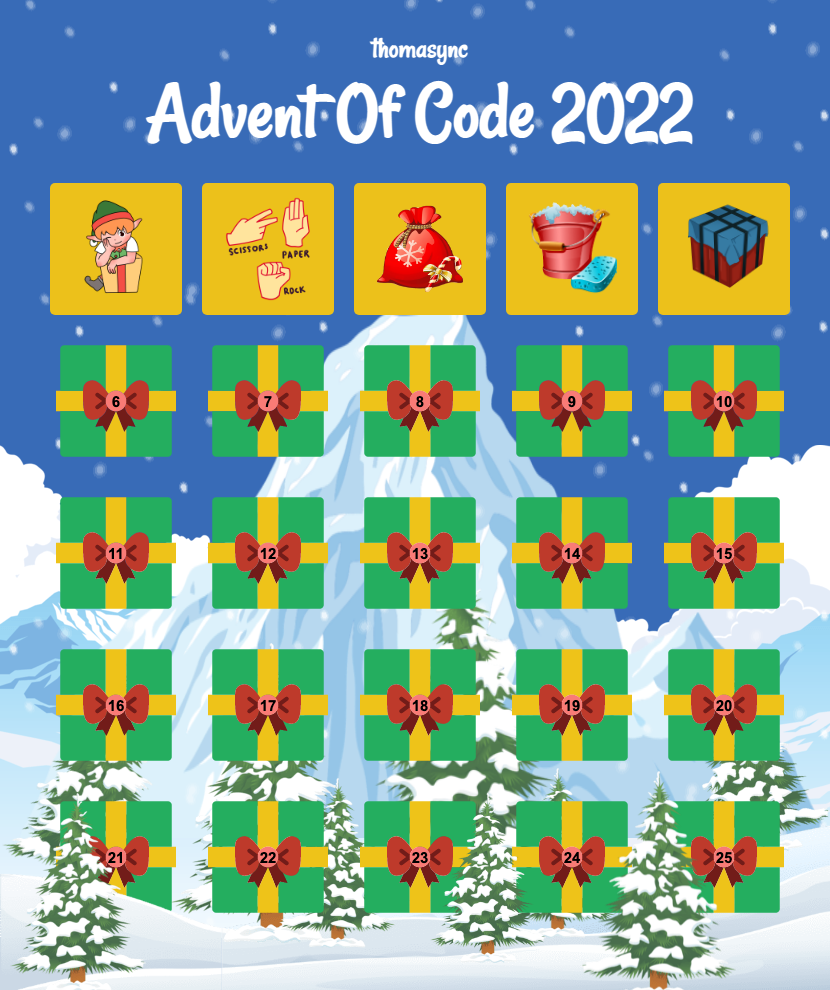
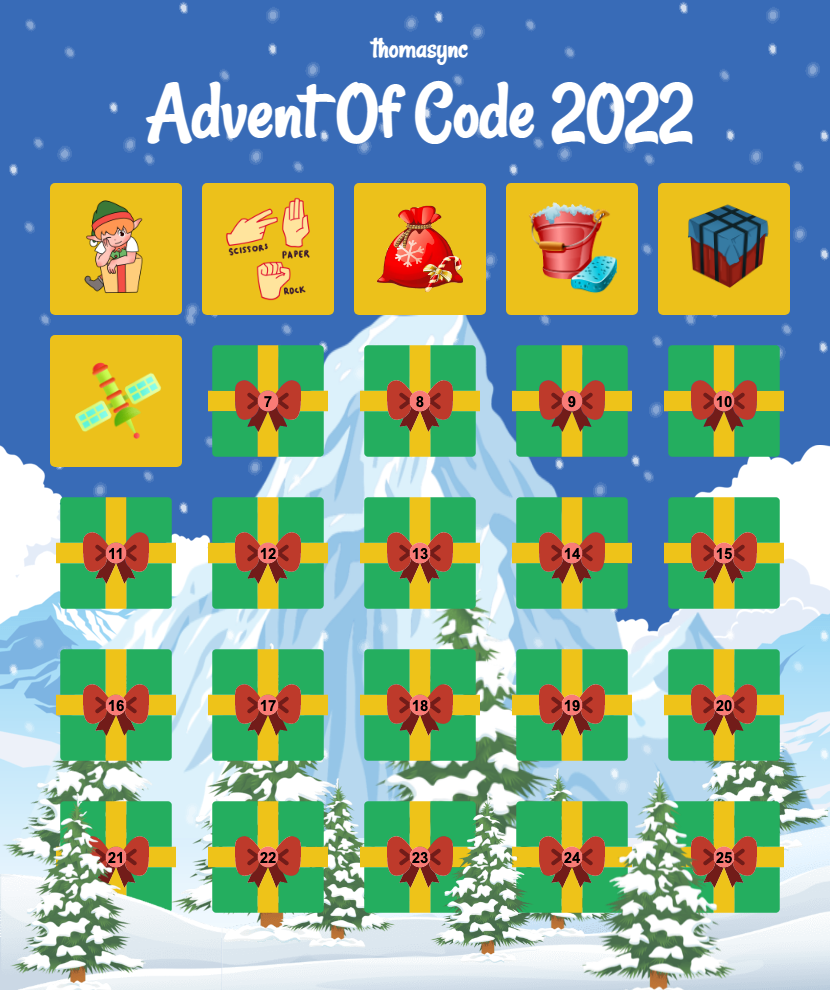
resolved #6

diff --git a/2022/js/3.js b/2022/js/3.js
@@ -112,11 +112,11 @@ function part2(input) {
     return sumPrioritiesTyped;
 }
 exports.part2 = part2;
-function score(letter) {
+var score = function (letter) {
     var sumItem = parseInt(letter, 36) - 9;
     if (/^[A-Z]*$/.test(letter))
         sumItem += 26;
     return sumItem;
-}
+};
 
 exports.default(["fzmmmfwDWFzlQQqjCQjDGnqq","tJHJvLJVVttNsvTtTvgHHSVwCsQRQQZCZZMqQMQBnqBMQs","LgThNJhNSgTJVgvgtghPhbpfWzfbwfPmpprb","lDLnSnLZRjmWrlhrFF","PffQJNqJbPZbpmjrrCVNFmCh","qzbcbqfMfZMTfQTqqzzTPPLMHgBBBtHRStvgHRDBnSRL","WPZfJlZZCMwwZPWCwWzVHQhsshVSsfNQHdvQNN","FLGDGGnGdVjQQQDQ","ccFFbggLnRcLFRtFBmnJzdZZzZBMpwJlZMppMp","RZsnCZssCnDccJCnfcQfHTdzMzhdLdMTqdRqpRLwqq","tNrGNrrvGhTThQqw","rrFStPgrFWWgvmPgQjtmNtmJcfJcsJsZblDZfbfHDFHnfl","RdTfgbbPbJWDDqRvsDsmVG","NSQZLQZHpFGLqnLszrJm","ZMSNMHhNZMMSQwhQJWPBJCbhbcgtgfcJ","qZfqPvLnnZGpGpCJlvsMsMlHJJHB","mTWFFFTTtVSJMzzjWgSH","RbVdtdFtcrmbRQDDVHDQTbDNwLPLfnqZnhZhQnNwfNqnnn","nhHfSGHGThhZjnhrrSnsSczdzlfzzdQQVzRNFNcFdl","JJvCDvmCbtvpvbMmDvLbCJpmqdVVVcMcNGzRcNFcRRzRclQd","vwDCwtLmwLBDJmCHHjHHWGZHBnsnnj","QWTMqZhThbTbLwtGBrQfQQNr","jdzSSccVPPcgcLrDBtDVwCfNNC","vcBgcmssccplTnnTqsMhWW","FlcwZhBhGZhFJnGtZZFwlGsWRLHdWqMzPjWRLTLJHHjdWq","vfmrmbpfpMfzjHjfdM","VCSmVpmrNDMZhSMcsFnh","nHqQVtVZGGwwwnSF","fMBBBWCsCfMMbWfbsGmGzFjQGQFCPhFQhF","fbcsWpJRsWlcNVLtqtLLQcZQ","rgNJdfNJpgpJVMMVfmfVJgCtCTqqqzwTqrBsTswcCCss","lFLHGWLvHQFhnQFhbFnbHWWPBtwqzBPTcsPTswZCPBGCTC","QQtbRtLhtjgdfMRMDV","jTRhJpGhQPfPLsDhWh","wVVMbqbHwVwwMplHWfsfNmWcSLqcLmSs","lVCZlHnwHdRpRGvZTBGJ","csppppDDbGLbSqndFHHNdHsH","lVTlgWgjzCzfgvfggZWWlnHPPBHrSCqBmrSBrHHBnF","QFgvFfjTvZjzlvVTWljvTtMbLcccbRRMbwLMMLQLbw","tjhLjLJzpJpwjsqqfQqNrNfRnsRR","WvwGBPwWZZrnbBNrNnnC","PDvGVTgvTMGvZTGTPvWDZVJjljtLzhtmLlJjwJVJLm","WbzpSNswNWszwSLgSNMcrrBfPJJcfsHMrvMv","CFllhlGFDVFRCmhQDlDTBBcvgBCTcHPHrfrHTJ","qGRgVFhDDZmDnDqhgQFGqzwtzSjddwZbzwpLNzjpdS","FlpZrQSJJmQpSpqlQgbbRZCgGCZdDdbNdd","WswHfjfnhWPFDsFRDcbBbR","WjHvjjWTfTvHFjzvPnPtttVTTJVLtJSpmtlltp","tnjrnnnnhNlPBtbbcWpZScpjbZSz","wmsFqfqqqGHTLbzpLLbgzMcH","FGJqsmQGRVFwwQJschPdhPrBndBhtPhrQQ","dRdJRfTnCRNlJjPBDmBJsbBDzm","wSFWSgGVSLwpFhpLhQjzgPzbtDPDbPBsztrP","WMGvVMLLBCclNHHRlM","gfSffQBDBtZvwwpWDHcbwb","JnCmmJCRmztsVPJRFjFchcGGWFWcGcHFvGLvHF","VCPzJnsPVCjtPjdMsMdmVmMBfgTZBTMfSfZSSlfNNgSSfg","lwHJSVZHWWVwJQwbbVVtwWVVdpdPfRfgDLPZLTZLDLgRDTZL","hhBrBqRcnhsFFfddmdmmCmmppn","MNNBBRRshNHbtVMzQJMM","NBsSNtLNTtNsvlTBBRLgFSCbFmbHFCFhgcghSm","WJWWDdVzDZJjDJQcCDHmmhCnmHmHFm","zQVdQZQwqVQHjqzWWWdHpzMwGMBlGLLtTvRvRNsMwwNN","ZCztttSjGSqRZgRPDNQQNr","hLvmHshLmLcFwwhhwLqMVRRRJQQVNnRJMVRDNNRr","HFhTpFqqLcssmqmFftblBSjCjStjbGWBfj","crffjHDfrQfnfpLPgbgP","TmFvFCmFTFFCtNsmMsRvlRTpPbLGMnGSngPppShGpbdgGJ","vmslmwTNmtstzFsCvRFrHBrDZzcQnWqcDDHqQB","LQLPVLGdGrRPRhHgwMhllhhs","ZbSZTNqSZfNqNCtSSmTttbpSWMlzWlslpWHsWgJWhwJzBMlz","bqjqqFFjHqTTTZTmSNbfmdrFQnDdcvVDGQDvvVnQnr","mQdcdsSThlccSWhMgDnQnFtjQPtnjPNvtR","zzsGwzrrHGBfZJGrJpDtNHFjvNvDvVRvNRtV","wZBCGrbrszTbThcTcLcb","gJDDDDcPQgQfNFPhhZGDDcZZSLVtlCqzsMlzqpszlsVtFSql","bBrdwHTrHWTrTtzLlSMCCCprCq","dnBwRvmnbmBvTpbnbWbTjZPQJhhchmJcmcQPfmGNcJ","sjMGBLWGZjsLjJTBCCbvNrBCHC","mpcRfDSSdqDdlRqdwRvFrHFbrHJFJVvDVrTb","qvlgqwpcSQSfLjjhzgnMzsnP","VgmLHHNRNVLNhsNgRHLltjjbCWnCWZbldntW","GGMFPJqPwJGTvvCCdqdqlqCj","rGwGrMQzJQBjJwTVHgDQDHcsfhVhVg","pblwGBlFlWwwlgCSFwbLvQZFvzvZhzvmQTLLzJ","HfqccHzVDNqLmmPmPPQZ","MNtrVdDjHtrzGBdbGWCblw","NNhnnLdnnfhdhVjvThvqVvCj","tHtHBzBGWHBWGtPBSvvpGZVbSsTFjSqqVbscgjCjqqSC","HBtzJHzzpDZpzMWpGPtWHvZwQmNLlmQnmNdfMmNRmwmlwd","QzGqGwmbfTdPBgRRcgmMPC","NtNZhljrNjrSrtltWlCJCJJfcVVRcJcRgPjf","NlWSZZWsHhWWlprSSvZWHrWfQLLQbLGfQpQzzTFQbwzQdd","gcwcSnccnwLRRSzcBQRvZZdvtNtvRbQJQv","CqrCrrPsVstvbfDfbb","TPlPVhWFFMGMnMjbcT","gjjHGvcHgsgbSRQbRFWbjC","ttnBTNSSfwBLzplWPPdlLlMPlMCQ","TBZpDtmnnZNvhJDHggqqgS","zfqzzGwMbllcJFqm","NpHgpRZrRpSrSZLghlTjchNlNbhFmchb","RHLWHgLBggZpHpgHRZrLgZLQCMzCfDWGMCzMQQGvPmvvfC","bBWWlFFBBFdVMLfvsfjrtBvTrr","qZsgNZzcwfjZrfPf","gcnNNcDncsDGzggDnNRJnzHhmlMVSSbhVVVmMbbhVmMlGl","dNNRQszqRhPNfddWltvDltMMNlnncv","ZjZbpgpSpjpJgpCCpbFlTnSDTlzclDnMvnnMlT","GCJpjbgzJCpwZwrHZrgHsRBwBVRRsqdqPhLBQqsP","mnnVCcwGwnsVJntmfnBtBhTDzpzzpDWbDbsLLzpWDz","FcHQdZSRHbhZZWWhrW","dNljMlPPHdMPvRlHMRdjRRNBnwJfCVqwqqffCfCwtcBV","ZGtGzBBGjvdZvLWLcrPVcZcsNVNmVpcH","MnlgngCJMgJbhfDbCDPrHHVcNNrVpbVpVmmcVq","lSPhlClftSSBvdGS","jFhGqVCcPMMdGFqczBltzrtglrsrjBgB","wWgwvfDZvnpmnHwHTfNpDbtRWbzltRlSrRlbBSbbzt","fHJvJvvTwwJPhCccgQCM","BrrrBVgNppDVBbTgDvqWdWZqWqwNmNNHvH","sHsHnHlcJjFwMMFFvGdPvv","HllCQCJQJsnjgtVTbBgpQrSr","JgLPLwbhBrCbLBCJPFFlPFZRTNTZFRqlRq","pmffSWvDcfSfGmvsNHZsTRsWllssbT","vDddMmScdStfzGcpzzwhJwJwnCbLwwLLCwht","sWSSvmsZsdZPWdLPRRsmSrrnlnvJjfnggfrgtfjnjr","VWWWBhhHBBHtljMMfJHrrt","WWqpWVqQqLNGRNZP","QHjjGVBQpffpjqppQsSsQHWJcVVgJFWcFTWgNLggFPNc","bzzmbzzZnZztFTNJWRqmqcgJ","zDZlqMtbwhCBBfppvHDGvf","BNTdfWJmzHNHHzzTdLCfCfCswQjRjljVsh","FbGnrFnrPGSSvGPFZFFPGClLQpjQRwLjLplQhRlsrQ","GbnvvgvPFwbwcnZMMGSFvFHdNHmTBNJNmmmDTJDBmWcT","rBhRPrjJrRtTHtWHWcjc","SDdGqmhdFSqblLGlHHfHWl","DSSmFqhsFqFdzqFgwsVnvBQPPQPQVrnRsJMR","NZcgQdmSwZgdPFPVNFPqqVVF","hlhhjMhGjLhLDGDhCBJDCrRFRrqqpLPfpfPRVPprPm","MlhjlMDDJTCmZddQQSTcTT","zRddrwzwNhrzrtCLtLfsLrqflC","MbSDZvVwGZpJwvHvBVfsqtjqlsPPfsqsfclb","vJpvJvZTVgTdTgwdTn","SZMsTTScDMqwtDDJ","VWrbzFvnrvFQQtnhzdPFmfwGfqmGPfDwmfPJ","rrLbrnVrLvVQpLHSHjsTBBjZBt","bSrpbWpPpfzPRWrWvhJgddrcccgFnFss","ljGNTCtMNLGQjNMjQMGtZJDDggcldcFcvhdFddnhhF","vNCmQMjmvGzpRPPzzmfw","BrbdcqcdSZRLQltNDqFpCpHH","jnTzWsWjWjwTQnzMvFlCzNDhNhDCFGpHpH","wmmvjVQMvwmsQMMwnsTPgVfgJcLcgfSbbBdBbJSdbSBS","bJFbMdcmgFSFgmggJFcGwjRdzPWZWGDDGGRwGD","hrttffCVVCTVlrttQwzRzwWTqRGDGwjTvG","rfLChHhlpHrfHlnWlpWCpQVcMSmMmSJMmggbmMSMLFNSSs","JRMBJfMJQJTcNNdD","LHsLmspghmmpdwwwcwRCpPTT","ttLLlRSlqjrMqFtZ","VjtHVHtvVqttCdnGpHtplcshglNgprrlMhrcNghw","WTWRvRWFZQLWDvDWzwscNfcflcshlshFlw","WQmBQWPTVGnJPnvn","cpRwjcQwVfQzQPQl","BZgGDBZBsgWBDDJzlhfhJVmzVfmThm","FqWDDGrGDFNqFrDZFnplNHnSwtnSRwRplN","VMLVRhRLRfhfgGdfVdZWRdTHNqHCDTrSJNBBBgJNQgND","swlcpsFPcPwzpSlTTDrNrQPQqQBBrH","zsppFscsscmbzsFsbsZbMfRZdVdVMbVSWhLG","NjcjHFjrHHFpjGtVtGWVZW","fwPlsJqdndPnwJfQdfllwNtWGdtWMMbtbmbGWbMWGN","CPlwnCwnwqClTJThTDzzFcHNSShrRh","llqlsNsPNTpDNTDNNf","cnvcWFjSrMSFnvWHTzTggHCcllzLpg","wjJSSrFrrMMJGrFFFGjGvJnFswsRwRdmBdZbbqqsPtQqPZls","jlclpqjcRqpjzjnVPgTmBmjCrC","vGvsFNGGMZNvdGshQNJvJgbVMrnbrHVBgBTTbBBPBT","SvJNGhvvvFdfQvFshSpqPqLzRRPctRcLWwlf","LWSSqLVBbNqqLrWHLSHzWbbqQfFgZtmtJCQZzgtCFCQCCnJQ","PlldGDGdjGsMPhssjPmQZFJQQZQghChZQJgv","jwMcMpsPRRdsRjPwNpTWBLSBqVqTNJWT","hWnMWgTffWFbMLfHnFMNfHgjtBSNRzjBBSzSBBcStdzBtz","VGrVCGcVJswvPqJQjtQppBzpSwdjpt","ZqqsCrmmsfmWcHhngg","vnNnssMcZnlnlMFMsnFcZMGqJCbLbNLNqgLbgLNTCpLgwC","hmjzBzHmRSfBfmqgQwpQQJbQJmwT","WVVtthRtRdsdqtddZd","LhZBLfZpmcsFpFzm","vTRRwTRRPnCTwlFgmsczzLmgLvFs","HVVVNCPPHTTtClRVNSnwLTHSQHBMMHrHWBhrQbJhWMMbZbJZ","WPTnnDPjvPlChhJPcgCC","DRQdBqsDQHQLHsBSmVLBcbwgCClbgCGlJghgmhgw","dHMHQDVVRBsMWTNfWfzWzf","PlgFPFFJGgJhhMGZwGbpBtQjjjStBttptlSb","TTcDzmHvdvnDDzdTVnTDmSspWspQLpWmSsmqppsWtb","CHVdcHvdbrwJCMPRGJwP","BtBfcPfBhBGDhwHMlCmrNSCM","dQdzLFTQnRnQVvgLnNlrCCpFrJCNrHJrwm","zRVLZQRRvQGbwtWfbGZb","PPcWcwMmCwwgnphCCLpjHp","TtZsJTzzJSSSZJsdJtTrpblhRlHHHMngpLnnjHps","ZDrvdFZtJqtStrZfMcGDVwfwffmWmP","wCwSzzsHChhMVMhCPsSVLFWcdcWGPccRdjFdJjDR","wBTTlBfgTlfpQQltmfgGGctRdGJJJFDJDDWdDt","TppwnmlnQQqnlpqlmmwqlpphHqrVrZZSzshzShqzsrZVqs","CCqCTgmdMCCCMMsWgqqnTCmJDGJcGGJfrGNGrSrrQpwFFSwG","vZbDZvhDbzHzwNzwNGFNpNGc","ZjBRVHPRtRLjLMWsCDlmgMdBmW","MMsstRChwbChqRBqDrJNpNDsHdlNlJdr","vLmPLfGGGGcTmFfTSgvPCvpZQlHHZpdrFJplQdZHQdHH","GgPLmvGVSPfmfcfgBtjwCRwwjBbtVWbh","LPPgFPccLPRswfsHfJgDsH","bpbpTnCCrnmCtjBnTfDshHDwQVTwsDhQ","BbrjnjnWCbBWZbPWzLDzDWdNlMWS","pnncvLbcppBHgBRpddGd","MtJfjVMtMmFJDjWSjVWzGdGgNQRBzBGNBMCGNB","ZdDdsJFdDmtJmLTbwcvcbcnwZv","FGsfFdNdhfbDdbhbLMhbNNTPJVCCZTLJnCRVJLPCRTVR","qHjsczptHpmgHZBBVVTrrPzrBP","lmpSlcglQtqWtcWjpQQfWsGDMhGFwdbGGNWhDv","hNNNjMFMwthjFfvZBjFFvNSdnzSGGdGmHzHgGWSfHWSR","ppJpcCVslpQJpJJDWHCHmRHHWWGSDn","QbsrJQTQJVJNMNnZTZNZvZ","NmRNLtGNmfcRrtDtrJCnWHJD","blSzzSBssgfslWCCCJWFWHrsZF","zTzbPBhMlTVSzMlMldlgMvvvvMLGcQRmqLLfvRwQ","nnZsfsPLLfZfHLWdsZWZHdmcSpTcGmNScJTRGsTJmNcF","gqVqDMgBlDbwwCqVbQFpTNFcTRSJNSrqqTSm","jlMVMjljQBjMwhLfWWzhhfhZtmLH","bfHwMvzwFBNpRjfZ","nddcVJpGVpGqPVBBFBmhBhmsNRJs","DWcPgPcPgnqCPlWWVWGMwbzwvQSSLbvgLpHHMz","NMVqtdPVHgVlrfVrpnjCwNjjpCpNNpCb","zhSvfWWzRfRLfvSpQjwbmmmvQvwwCD","LBRRTRcLJSgqqMJlVVft","GpgNzzSMGpGTrgzgMzJTrPgzjRwBdBlBbLRBjdBwVbLRVbSR","sQWCfQcflhtQQcWCmsmlsbLnRdwqqBmmbBVbLVLwnB","fCtQWFWDZFCQhCctFDsftNpzPPzZJpgJJNTgNlPZgH","DqLtMSDLLttjdDSRdjZtdpdqVWFslFWrqWPqhwhfFwwCFw","CvTbNvvTJNGHnVJwPfwFFFwsrh","cQBzGBHnTQGgcNtdMMBpDBtCdtLL","QsNDfdDNQsSTtrQZQtJJZC","lLvRWMVMLzWbRjvVgVVGvmTtCrZBrTFFbmJCmsBCrr","lljvlgpMGgRpsjsRlGGsMdqDdpDqNqfhqqSdncpqdP","sVSJVmmtmsCCwschrbNMbcBs","ZgLLfqvzzqgfdqHQLnTLfQQFhFMrhbNGBwgGbMlNcFclwN","LTzqZrHHQvjLHnHdQTdTQvZQJjCpCJDPmCRRtCpStRRmVtmm","ccQVcVHwnnDqNqSWNnVvqwcgJblgRslgmdGlssmGbQdddb","rpFtPrzrMFZvZTLPpglhdssFshssJhsggG","pTtLtBMjZLfHvNWqcBHf","PZnSjnnsVfjfLLff","crvccpglrtHfNbzbHLzmGN","lptTLFFpdgvttFWltTclplDvhJMSMPhJPhChShPBZBMJhPMT","mPSPdnhznPdhSmPGchJdFDtBhghgFgWpFBQhTBMg","rHNNvbqHHHwZwMGMWtgtQMZQFQ","wRqqRffvvNHwrHqrNqLvCrqvmPnzdsGJsSsSdSsLPVVPnjsn","CzlngWpClJlzRJpDnpmzCndrhBcrhwcsBcLsNcsmLdQQ","qqSjqFGTFbPFSPTVjcBcBsDdQrwBVLrNcc","PtDDtZTvGDvFCMzZlRJCfWfJ","vtQDpvpvVvvcSFrrljZZsVjFrV","RqcTTRddRrlsjZrwrT","zmbdRdMmMgbPDcGhGmnDpcQn","gZqJRZRZdltFVGZQDZwV","MCMSRHCMRHBBVtVCGwDCFGtD","jcHsTMBNSSrBMjmMrcTMpRqpJggllnprqzRPzdlP","mWSWHdmHWZWjBnGs","TvchwtTfcTvhzwVGNtdrbjnnBnsnNr","JTdwghvMzwfdcMVJqPmQFRPpCDJRJFFC","DsHDCrszvvhHsshvsrrsgwdPpdLFgWLpbRpWFfMjWjWF","BVJPJmPmGZVnfbVfMWpdLMWb","cNGtnttqmJHNvNzDPPHN","gpjmMQMrfmMntCSCNmSNCm","vDRqphDhzHSdtqdCNH","LFLLcbJRJLppFQlpMFfF","SnSdvchzZZczndNvwcwnQrGfqrTTfhhTDgRGGLQQ","lVWHWMmWmttsFBMLLqLTRRRqqDBGTf","bsFPbFFssmFjWRmjVFjHbczvpZCwvwZccndpvzpzCP","jzngbHrlHQllcbcTCtHGWtftGCHqWC","JJgmsJRwFqChLGtqGs","SmJmSmDdSPRwSMppJdPPwVvvzNQvjrNMNjMZZrQgZNgQ","PvPlPcZPZFllzNzCDdhhdHjrpHNjHBHB","VmgWtJWrqbQmqGDBdGQjjhBGdG","tmbgggbgnMWnStttgnfnTzrCfPvFnccnPclT","RQQbdSRdpprQSNVqqqfrffjvnjnJnhnVvHhBhVjJtjJz","WGgGgLmLgGZMPDBhDJDHjMBFnD","WPPwPGwlLgZwmWlslCLRNbrsTrfRrNNQqsspBT","dNNpHpchLppdccTNtZZTRRPSSnwPPSbSnhhrhnSJ","qfqsFsqffgQMznJrPznbMrrB","vglfqQCgDgFjglCDCjLZpTHNPHttdcZVVN","FWtDHDStZwrFCDwrgWPFDsWQJZzlMdpZzlNpNjdjjQzNzj","BqnVGVcbTmGfHLGVzvpQpvJvQlflMdJp","ThRRchnHqLTGbFCCCrrSSFhFCs","wJrwdZPnJwqPbJPCnjFZdvHtMvsLsTsDtHsHDDqvpH","RWzNRWjRfgjNMMLvcMcLNt","WGGRQzzRmRmVQSgwrwJjjCbJhnbShJ","cjngcvcwbMwWnbMWjbgvnsjPftsqfthqsBtsJJJJBt","HrGFmDDzpmLTHpDsPfsBNBPfzZNPqN","DDVmDplDrpGSVSTTHGlpLnPwCRnWcvWCdPbbMvcVdW","BVRlBfPBffWswVWQsfwBNNPMFMmmGFZGnWZGtztrzMZMnz","HqSJchHTHbTgHhGhvmRzFmnFtzRF","RJqHTpgDLJDSqLJJPNVjsfPwBVsVLlfN","NDrBlSmrFBlbbJllmtHHwhNNhZztqHVRzQ","CMTCGLcvvtfCdCcCvCnMTMcTzjHwVZVRLjRRjQjRHRwzwjVH","dfGdgGMGPggnvfvgbtDtlSJPDSFJPslJ"]);

diff --git a/2022/js/6.js b/2022/js/6.js
@@ -1,0 +1,111 @@
+"use strict";
+/*
+
+--- Day 6: Tuning Trouble ---
+The preparations are finally complete; you and the Elves leave camp on foot and begin to make your way toward the star fruit grove.
+
+As you move through the dense undergrowth, one of the Elves gives you a handheld device. He says that it has many fancy features, but the most important one to set up right now is the communication system.
+
+However, because he's heard you have significant experience dealing with signal-based systems, he convinced the other Elves that it would be okay to give you their one malfunctioning device - surely you'll have no problem fixing it.
+
+As if inspired by comedic timing, the device emits a few colorful sparks.
+
+To be able to communicate with the Elves, the device needs to lock on to their signal. The signal is a series of seemingly-random characters that the device receives one at a time.
+
+To fix the communication system, you need to add a subroutine to the device that detects a start-of-packet marker in the datastream. In the protocol being used by the Elves, the start of a packet is indicated by a sequence of four characters that are all different.
+
+The device will send your subroutine a datastream buffer (your puzzle input); your subroutine needs to identify the first position where the four most recently received characters were all different. Specifically, it needs to report the number of characters from the beginning of the buffer to the end of the first such four-character marker.
+
+For example, suppose you receive the following datastream buffer:
+
+mjqjpqmgbljsphdztnvjfqwrcgsmlb
+After the first three characters (mjq) have been received, there haven't been enough characters received yet to find the marker. The first time a marker could occur is after the fourth character is received, making the most recent four characters mjqj. Because j is repeated, this isn't a marker.
+
+The first time a marker appears is after the seventh character arrives. Once it does, the last four characters received are jpqm, which are all different. In this case, your subroutine should report the value 7, because the first start-of-packet marker is complete after 7 characters have been processed.
+
+Here are a few more examples:
+
+bvwbjplbgvbhsrlpgdmjqwftvncz: first marker after character 5
+nppdvjthqldpwncqszvftbrmjlhg: first marker after character 6
+nznrnfrfntjfmvfwmzdfjlvtqnbhcprsg: first marker after character 10
+zcfzfwzzqfrljwzlrfnpqdbhtmscgvjw: first marker after character 11
+How many characters need to be processed before the first start-of-packet marker is detected?
+
+--- Part Two ---
+Your device's communication system is correctly detecting packets, but still isn't working. It looks like it also needs to look for messages.
+
+A start-of-message marker is just like a start-of-packet marker, except it consists of 14 distinct characters rather than 4.
+
+Here are the first positions of start-of-message markers for all of the above examples:
+
+mjqjpqmgbljsphdztnvjfqwrcgsmlb: first marker after character 19
+bvwbjplbgvbhsrlpgdmjqwftvncz: first marker after character 23
+nppdvjthqldpwncqszvftbrmjlhg: first marker after character 23
+nznrnfrfntjfmvfwmzdfjlvtqnbhcprsg: first marker after character 29
+zcfzfwzzqfrljwzlrfnpqdbhtmscgvjw: first marker after character 26
+How many characters need to be processed before the first start-of-message marker is detected?
+
+*/
+Object.defineProperty(exports, "__esModule", { value: true });
+exports.part2 = exports.part1 = void 0;
+function default_1(input) {
+    var part1 = exports.part1(input);
+    var part2 = exports.part2(input);
+    console.log(part1);
+    console.log(part2);
+}
+exports.default = default_1;
+function part1(input) {
+    var count = 0;
+    input.forEach(function (line) {
+        var length = line.length;
+        for (var i = 0; i < length; i++) {
+            var substr = line.substring(i, i + 4);
+            var arr = [];
+            var isGet = true;
+            for (var j = 0; j < substr.length; j++) {
+                if (!arr.includes(substr[j])) {
+                    arr.push(substr[j]);
+                }
+                else {
+                    isGet = false;
+                    break;
+                }
+            }
+            if (isGet) {
+                count = i + 4;
+                break;
+            }
+        }
+    });
+    return count;
+}
+exports.part1 = part1;
+function part2(input) {
+    var count = 0;
+    input.forEach(function (line) {
+        var length = line.length;
+        for (var i = 0; i < length; i++) {
+            var substr = line.substring(i, i + 14);
+            var arr = [];
+            var isGet = true;
+            for (var j = 0; j < substr.length; j++) {
+                if (!arr.includes(substr[j])) {
+                    arr.push(substr[j]);
+                }
+                else {
+                    isGet = false;
+                    break;
+                }
+            }
+            if (isGet) {
+                count = i + 14;
+                break;
+            }
+        }
+    });
+    return count;
+}
+exports.part2 = part2;
+
+exports.default(["vmsvstvtzvzqvzvssvddsgdddrqrsqqwnnffrwrswwztwzzbssgtstvsshrsrrlvrvzrrsqsvqsqbssqrsrjrsrddqnnfqnnrfnrnffjsjnnqddjjbvvbzzshhsffmtftrrpzznlltclltmltmllzclcwwgzzzqvqhqllcrllqdqpqnqbqggcrcsclssrfsssqhhfzzprrjvrjvvblvbllwccztzggspgggqrqcqjcqjcqcmmffmtmltlwwcpplpqqwhwvhvnnqhqsqlqvvgfgqqddlhhstthzhgzgbzbdzbzlzwlzlpljlgjjqlltrrbmrrvvcttsddfjddmbdbffcrfftvvzppncpcvcdvcvvjjjlttcgtcctrrrgmrgmgwwsgscsffswfwqwnnzmzffpwptpntppbddggsbsddmjmssnzsnstsztttjztjjpddwlwrrlnnzsnnfllqrrqmqhhfddtmmpfmfcfgfllngnvnjjmffwbffsqsmsdstdddjssmlssfpprrgzzzwvvftffczfftccwrrdsrsjrssfnsnttqptqtnqtnqtttjqtjqjzjpzpvzvbzvvjqqvcqcwwgwllbwbjjhsjhhchffgdfgffvddrndrdwdwlwqqfqzzntzzhwzzndnjnsjjmvvlqqqqshhmzzjvvcscqqjjhphnppcprrhnnbsspcscbssnsmmznzsnnszsrzrwrswsgwglwlzznpnwpnnjlnlrnntllhvvdrvvprpptqqlzqzrrgfgfhfvhhcscjjfmmjpmjjvwvtvhvqhqvvqvwvpvsschhlmlrlmljjqnqggbwbmwbwgbwwgllqzllrjlrjjfjzffthhpvvsddvjvvzsvvhghlhqqbnqqlnngsngnccnpccmttmrtmmlmccqbbjssbsqbqddnqqdvdvbvgbvvjfjhjzzfhfzffgccdjcjtjpttcrrffvddwgglrgllbttcqtctqtvtwtggrppzvvbzvzgzsznnsqnsqqnwwzrwwnwbwnnhznhzhchwwvwhwlwlnnmwmfmfrmmnvndnffjgjmgmfmhmtmstthjhbjhjddrqrllnflnnwzwjjthjhwhmmflmlfmfddqgdqgqqwbbdsstssrvvbpbgppfwfvvglvvzgvgmvgvzvdvcctddjqddffrprbrggpgpghhwzhzggqrqsrstrssnttrgrsswsrstsdtdzttzvznzjnzzqssjwswcswsgghqghqgqvggtsswwmbbfrrdcctjtjsttrccqbbtcctcscqsssvmmdhmdmvdmvmsvsrvsrvsszvvrpvrpprvppctclcrrchhtmmbddswddglgrrdcdppcbpbgpbggbssnrnbrbllqwqbwbmmcwmmrjrdjjpsjppblbjbsbsgswsmwmgwgmmqpplzlssvcscnngwgvvffvlvtvtddgqgttjljggfzggmfgfqqtrrdbdbbnjnnbjbwwjjqljlnjjvzvhvlhhhsfhsfscsjcjsjbsjjdbdbpbqqsggcnczcchrhjhphlppnwwhthghhfvfrrbzrbrrcsszfmhrjflswthfrlmjbnhblmsldjpnrdgfbcrftnbcltlctbdthhjzsqvbmppcbhctqbtfhdrtrbzjpnzzvtfjtpqgbtmdcnjgtblhmvrpbrcpqfhpzqvbfqhsrjqwqqnggrlgvwndqrhvpzhswnglngwjdgwcnngrvhtcsblpdshqcwfpzcpmrbzqjfpllbbvlcfjtdqchjsgsqgqzsbfnnqcsvpwfmzdhzmcjfjnczldclvpfpntppqbhfqzqdtfwsvdzhphwpzhqqfflswhtldlrmrqpfdlwwszphrwjqvhpqmrzvblvtvsfpgzdhnlmsgpqnqdtbjqccbtnvqmtdggdsvvfwjzbdpnztmsblpgcrmppblmtfnjvjwmhnwqdmdrvbvsvhgbhjwzjfcqzwtvzlfmpzvpwsdsqphmqlzwfrqdjdbsmfdzllqqfhmcmhchjpbqtjbczhbcllmtqgczdfnjsjhhcsfdhwwbzzjdqtlvgfgfwbqztqftfqhsfvbzjcbmtdzszfsgzpqpvtqnmjhlrtbvfphvhwbnqsnwgpznnwcbbvdqvvzllqpjbqhqwtfzlhqgvmrpjmlvczqgmffsjvgzvnvccgnmdmbcqjqvbnzvdgnbdwbszldjwjdsnplgqnjmlvrlzcvlgtrdndhjmrtczqjqrzzzclrdmdmrgvljstqfhldfzgvhcdtmncqjjnghgwdgnhbjztfgpqnvfhzngqcftpbqsnvgrqpczwptghbssljnftzmbrqmnbvcbsshvmmmczjgnbjwltflndtntmfznmqhzjjtmmtwbflhmqcmlmzrnvfqzmzhhszqmmqwgzcnncjwvdzvczsgbpcscjptfpwhvvvstvqzhtptrmbhttcrdzhljpmclrbnzmvmtbmmdhfgpjjwsldsgdjflhmfrgvmgzvntgmlglfsntpjjwgnpwsjvsnbctwlsqvprlfmsqfdmzdsdvbtsnqzflvtlgrmdhfgfmwrcqjvbwqsblnwlmtqfhdwwlchqljbljwzmmqgqpwfnmjlvhmppzsdjlbvqwmwqwqqsrgzmpzzzzstrtrbwttzjcmlssstpntnrwtgthrfmthbjjmmtcvjnwsdpdndccgncjbjdqbwtlbfcmgvmlbrdzzlzcpctjvldbpvvmsrwrhhtdsrwljtmntcftwvppjvtttgslrdvpglzdnhrgnrzjsczsmtcfclhvncrhsfvbppqrbwsmjbhjmllwwlqvhbljrqpzshqvllzqtjfhdlnghwblzjldcmfgfjgcbfwqldvdppjmsqqqmznwtcgpmlpqmdpzctwjpnstvgjsbzspfbvfcrgzzcdbzfthgbjrnjwpprblnhdcfgpdcmljpqqzchslpvlwqjvsqtnvnfjhpvwjnjzghnbslhmrhwdppgtvzzmhzzzsvldphjlhrfjwrctfcmnzpvvwqrczcsmznflcwzsplrsdvmfghmnbbjdzclnzpbtjllcszzjcqbbczqhbnfpcctbmhfglsdtnzdjrjbjqczqflznfwzsrmpcgvgrjmhtpgllcpdnlrzvqljprnpvcglvmbtbzjwqfrhdngwsrfjsqnhfncnvprrcngjzfdvcnphcchbqhqpbbbzgmbfndlffnrpzvplptnrvjlzfczvsbctmdqrzdnpvrtgnsgdjwqshglspdzbhflfbsfvbrqgfzmhzhshdlcnqhzbnhbhmsgffgsmvglhscqsrsvmszjfgdhsglbqgwwjndscsqvpccwhlvjbtvftdppcscjblwtmpvvchpzwmblmbbrrvwlglfqwtgcffnzljnmtpbcrszvblwfqdslpqlrmnvrhvrzwnprnmntzrpsdcnwfgljldpvjwwzzbpcltnvghqvqnvmmrfqsnbstdctqqgtpzqttnrrdstrtlfzmvvbzzwwchrscqlnpzdmphdwdqdwbszlhwsbfscthndrdvhtgbpsmznlfjpwjchvzbmrflcphhgjfwstjnzlllztgzjmnwcglmhrbztzdnbcbrgrlmpprrbthbhslfrsjsrrrqvwmqghcgdvvsmrqdwwbdnzmnsqfflpbbjvzjdgsfjdjmbhptmrnbqpqhcdwtvbdlrdzsrchqlsrccjfbfrnnrctdsqbnjzzvrlcwphsscppdmsbrqrzddrdvjwfrldccmzwrhrbpcqpnvnbgpsrhvbchmrdtwqrlvpwhqgnppmsdvqdldlrjrzntlsfwmwhjsghddsppchqlltrhlwrccvflwjbvptclqvwdmrmghbngbflfspsjmglzcqjdtdtldmmngljwfqvfwnmfdtrsmlqzszhzccgvbnnwtpbgssrcqlqgrsjqfhhwpvdtsclgsntwvcsfpvwfqnmwhmtldfswqrsvzshfzwlnwhqhwsrqqzlsdhvqfwnhjcvmplcljmlhbtqtrpjfjfdfmlhtfpnszptfnjbldscjgvjhpzflhm"]);

diff --git a/2022/6.ts b/2022/6.ts
@@ -1,0 +1,112 @@
+/*
+
+--- Day 6: Tuning Trouble ---
+The preparations are finally complete; you and the Elves leave camp on foot and begin to make your way toward the star fruit grove.
+
+As you move through the dense undergrowth, one of the Elves gives you a handheld device. He says that it has many fancy features, but the most important one to set up right now is the communication system.
+
+However, because he's heard you have significant experience dealing with signal-based systems, he convinced the other Elves that it would be okay to give you their one malfunctioning device - surely you'll have no problem fixing it.
+
+As if inspired by comedic timing, the device emits a few colorful sparks.
+
+To be able to communicate with the Elves, the device needs to lock on to their signal. The signal is a series of seemingly-random characters that the device receives one at a time.
+
+To fix the communication system, you need to add a subroutine to the device that detects a start-of-packet marker in the datastream. In the protocol being used by the Elves, the start of a packet is indicated by a sequence of four characters that are all different.
+
+The device will send your subroutine a datastream buffer (your puzzle input); your subroutine needs to identify the first position where the four most recently received characters were all different. Specifically, it needs to report the number of characters from the beginning of the buffer to the end of the first such four-character marker.
+
+For example, suppose you receive the following datastream buffer:
+
+mjqjpqmgbljsphdztnvjfqwrcgsmlb
+After the first three characters (mjq) have been received, there haven't been enough characters received yet to find the marker. The first time a marker could occur is after the fourth character is received, making the most recent four characters mjqj. Because j is repeated, this isn't a marker.
+
+The first time a marker appears is after the seventh character arrives. Once it does, the last four characters received are jpqm, which are all different. In this case, your subroutine should report the value 7, because the first start-of-packet marker is complete after 7 characters have been processed.
+
+Here are a few more examples:
+
+bvwbjplbgvbhsrlpgdmjqwftvncz: first marker after character 5
+nppdvjthqldpwncqszvftbrmjlhg: first marker after character 6
+nznrnfrfntjfmvfwmzdfjlvtqnbhcprsg: first marker after character 10
+zcfzfwzzqfrljwzlrfnpqdbhtmscgvjw: first marker after character 11
+How many characters need to be processed before the first start-of-packet marker is detected?
+
+--- Part Two ---
+Your device's communication system is correctly detecting packets, but still isn't working. It looks like it also needs to look for messages.
+
+A start-of-message marker is just like a start-of-packet marker, except it consists of 14 distinct characters rather than 4.
+
+Here are the first positions of start-of-message markers for all of the above examples:
+
+mjqjpqmgbljsphdztnvjfqwrcgsmlb: first marker after character 19
+bvwbjplbgvbhsrlpgdmjqwftvncz: first marker after character 23
+nppdvjthqldpwncqszvftbrmjlhg: first marker after character 23
+nznrnfrfntjfmvfwmzdfjlvtqnbhcprsg: first marker after character 29
+zcfzfwzzqfrljwzlrfnpqdbhtmscgvjw: first marker after character 26
+How many characters need to be processed before the first start-of-message marker is detected?
+
+*/
+
+export default function (input: string[]): void {
+	const part1 = exports.part1(input);
+	const part2 = exports.part2(input);
+
+	console.log(part1);
+	console.log(part2);
+}
+
+export function part1(input: string[]): number {
+	let count = 0;
+	input.forEach((line: string) => {
+		const length = line.length;
+		for (let i = 0; i < length; i++) {
+			const substr = line.substring(i, i + 4);
+			const arr = [];
+
+			let isGet = true;
+
+			for (let j = 0; j < substr.length; j++) {
+				if (!arr.includes(substr[j])) {
+					arr.push(substr[j]);
+				} else {
+					isGet = false;
+					break;
+				}
+			}
+
+			if (isGet) {
+				count = i + 4;
+				break;
+			}
+		}
+	});
+
+	return count;
+}
+
+export function part2(input: string[]): number {
+	let count = 0;
+	input.forEach((line: string) => {
+		let length = line.length;
+		for (let i = 0; i < length; i++) {
+			const substr = line.substring(i, i + 14);
+			const arr = [];
+
+			let isGet = true;
+			for (let j = 0; j < substr.length; j++) {
+				if (!arr.includes(substr[j])) {
+					arr.push(substr[j]);
+				} else {
+                    isGet = false;
+                    break;
+                }
+			}
+
+			if (isGet) {
+				count = i + 14;
+				break;
+			}
+		}
+	});
+
+	return count;
+}

diff --git a/2022/5.ts b/2022/5.ts
@@ -99,37 +99,42 @@ Before the rearrangement process finishes, update your simulation so that the El
 
 export default function (input: string[]): void {
 	const part1 = exports.part1(input);
-    const part2 = exports.part2(input);
-    console.log(`${part1}`);
-    console.log(`${part2}`);
+	const part2 = exports.part2(input);
+	
+    console.log(part1);
+	console.log(part2);
 }
 
 export function part1(input: string[]): string {
-    const stacks = parseStacks(input);
-    return move(input, stacks, true);
+	const stacks = parseStacks(input);
+	return move(input, stacks, true);
 }
 
 export function part2(input: string[]): string {
-    const stacks = parseStacks(input);
-    return move(input, stacks, false);
+	const stacks = parseStacks(input);
+	return move(input, stacks, false);
 }
 
 const move = (input: string[], stacks: string[][], reverse = false) => {
-    const inputMoves = input.join("\n").split("\n\n")[1].split("\n");
-    inputMoves.map((line: string) => {
-        const [count, from, to] = line.match(/\d+/g).map(Number);
-        const load = stacks[from].splice(stacks[from].length-count, count);
-        stacks[to].push(...(reverse ? load.reverse() : load));
-    })
-    
-    return stacks.map((stack: string[]) => stack.pop()).join('');
-}
+	const inputMoves = input.join("\n").split("\n\n")[1].split("\n");
+	inputMoves.map((line: string) => {
+		const [count, from, to] = line.match(/\d+/g).map(Number);
+		const load = stacks[from].splice(stacks[from].length - count, count);
+		stacks[to].push(...(reverse ? load.reverse() : load));
+	});
+
+	return stacks.map((stack: string[]) => stack.pop()).join("");
+};
 
 const parseStacks = (input: string[]) => {
-    const inputStacks = input.join("\n").split("\n\n")[0].split("\n");
-    const linesStacks = inputStacks.map((line: string) => line.split(''));
-    const stacks = Array.from(Array(10), () => []);
+	const inputStacks = input.join("\n").split("\n\n")[0].split("\n");
+	const linesStacks = inputStacks.map((line: string) => line.split(""));
+	const stacks = Array.from(Array(10), () => []);
 
-    linesStacks.reverse().map((line: string[]) => line.map((c, col) => c.match(/[A-Z]/) && stacks[((col+3)/4)].push(c)))
-    return stacks;
-}
+	linesStacks
+		.reverse()
+		.map((line: string[]) =>
+			line.map((c, col) => c.match(/[A-Z]/) && stacks[(col + 3) / 4].push(c))
+		);
+	return stacks;
+};

diff --git a/2022/js/5.js b/2022/js/5.js
@@ -102,8 +102,8 @@ exports.part2 = exports.part1 = void 0;
 function default_1(input) {
     var part1 = exports.part1(input);
     var part2 = exports.part2(input);
-    console.log("".concat(part1));
-    console.log("".concat(part2));
+    console.log(part1);
+    console.log(part2);
 }
 exports.default = default_1;
 function part1(input) {
@@ -125,13 +125,17 @@ var move = function (input, stacks, reverse) {
         var load = stacks[from].splice(stacks[from].length - count, count);
         (_a = stacks[to]).push.apply(_a, (reverse ? load.reverse() : load));
     });
-    return stacks.map(function (stack) { return stack.pop(); }).join('');
+    return stacks.map(function (stack) { return stack.pop(); }).join("");
 };
 var parseStacks = function (input) {
     var inputStacks = input.join("\n").split("\n\n")[0].split("\n");
-    var linesStacks = inputStacks.map(function (line) { return line.split(''); });
+    var linesStacks = inputStacks.map(function (line) { return line.split(""); });
     var stacks = Array.from(Array(10), function () { return []; });
-    linesStacks.reverse().map(function (line) { return line.map(function (c, col) { return c.match(/[A-Z]/) && stacks[((col + 3) / 4)].push(c); }); });
+    linesStacks
+        .reverse()
+        .map(function (line) {
+        return line.map(function (c, col) { return c.match(/[A-Z]/) && stacks[(col + 3) / 4].push(c); });
+    });
     return stacks;
 };
 

diff --git a/2022/tests/6.spec.ts b/2022/tests/6.spec.ts
@@ -1,0 +1,19 @@
+const day6 = require("../6.ts");
+
+describe.only("2022 - Day 6", () => {
+	beforeEach(() => {
+		const fs = require("fs");
+		this.input_sample = fs.readFileSync("2022/inputs/6_sample.txt", "utf8").split("\n");
+		this.input = fs.readFileSync("2022/inputs/6.txt", "utf8").split("\n");
+    });
+
+	test("Part 1", () => {
+		expect(day6.part1(this.input_sample)).toBe(11);
+		expect(day6.part1(this.input)).toBe(1582);
+	});
+
+	test("Part 2", () => {
+		expect(day6.part2(this.input_sample)).toBe(26);
+        expect(day6.part2(this.input)).toBe(3588);
+	});
+});

diff --git a/2022/4.ts b/2022/4.ts
@@ -58,7 +58,7 @@ In how many assignment pairs do the ranges overlap?
 export default function (input: string[]): void {
 	const part1 = exports.part1(input);
 	const part2 = exports.part2(input);
-	
+
 	console.log(`${part1} pairs fully contain the other`);
 	console.log(`${part2} pairs overlap`);
 }

diff --git a/2022/3.ts b/2022/3.ts
@@ -115,7 +115,7 @@ export function part2(input: string[]): number {
 	return sumPrioritiesTyped;
 }
 
-function score(letter: string): number {
+const score = (letter: string): number => {
 	let sumItem = parseInt(letter, 36) - 9;
 	if (/^[A-Z]*$/.test(letter)) sumItem += 26;
 	return sumItem;
